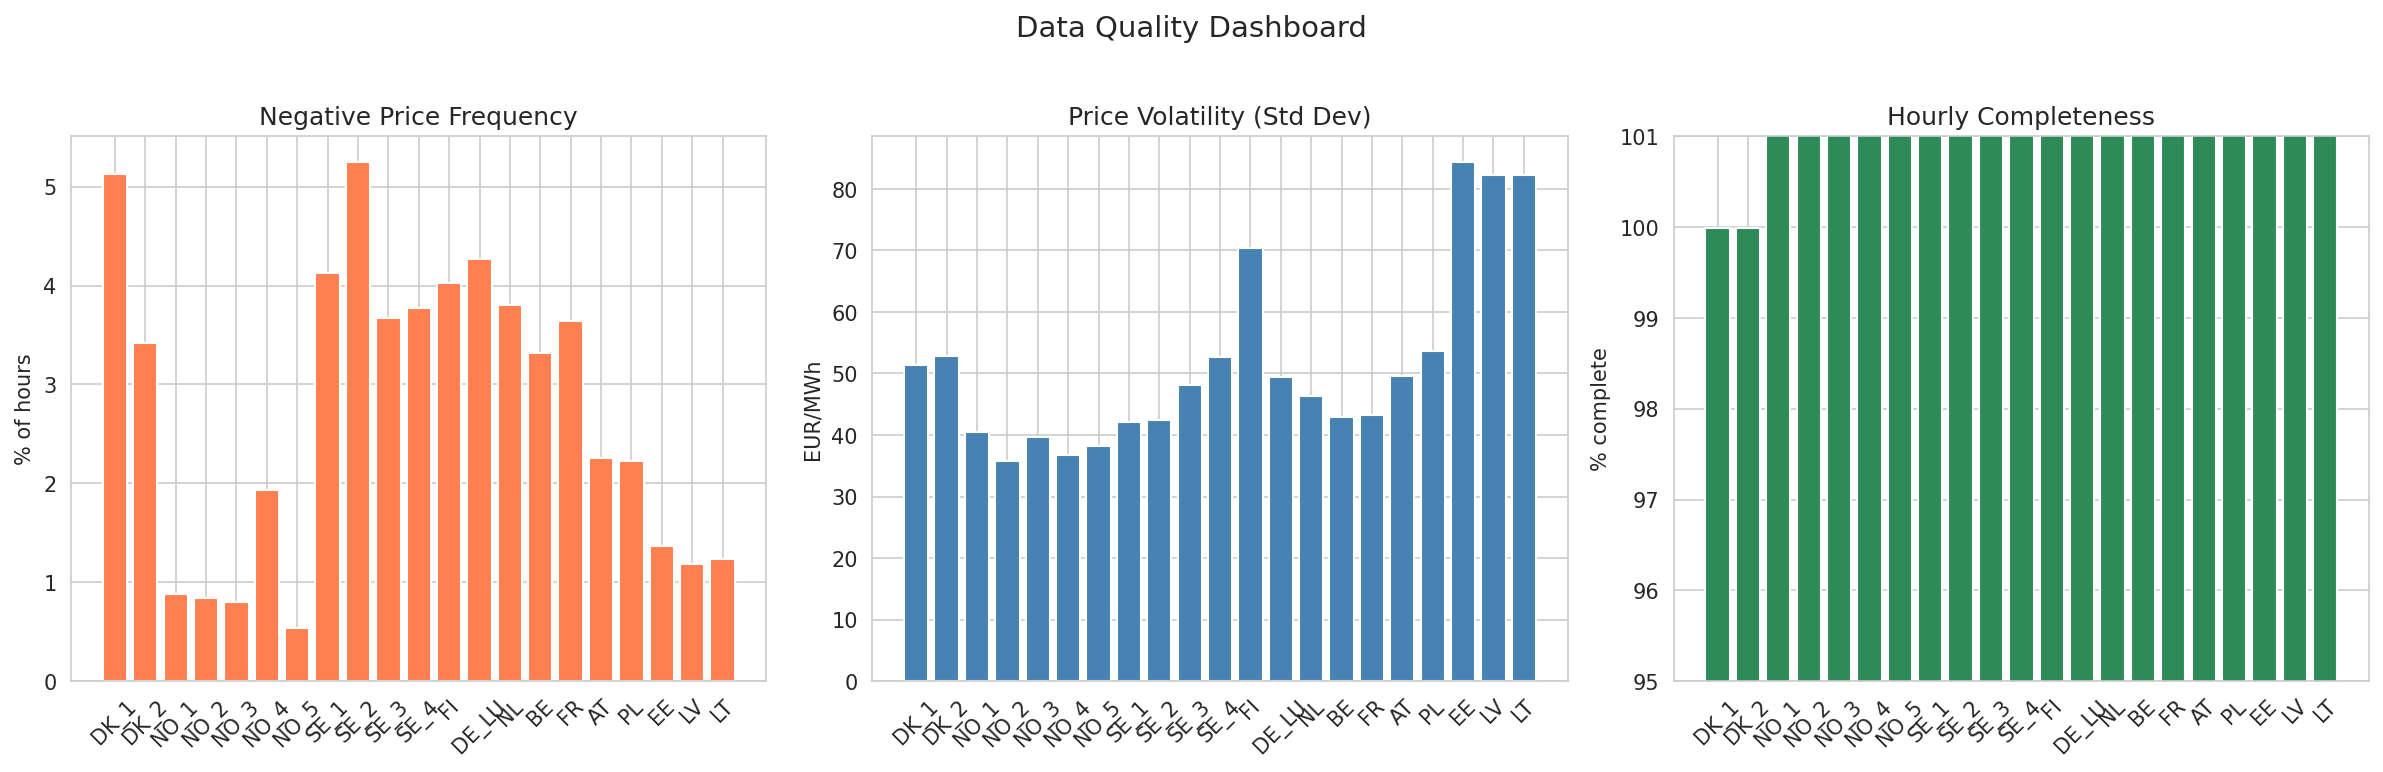
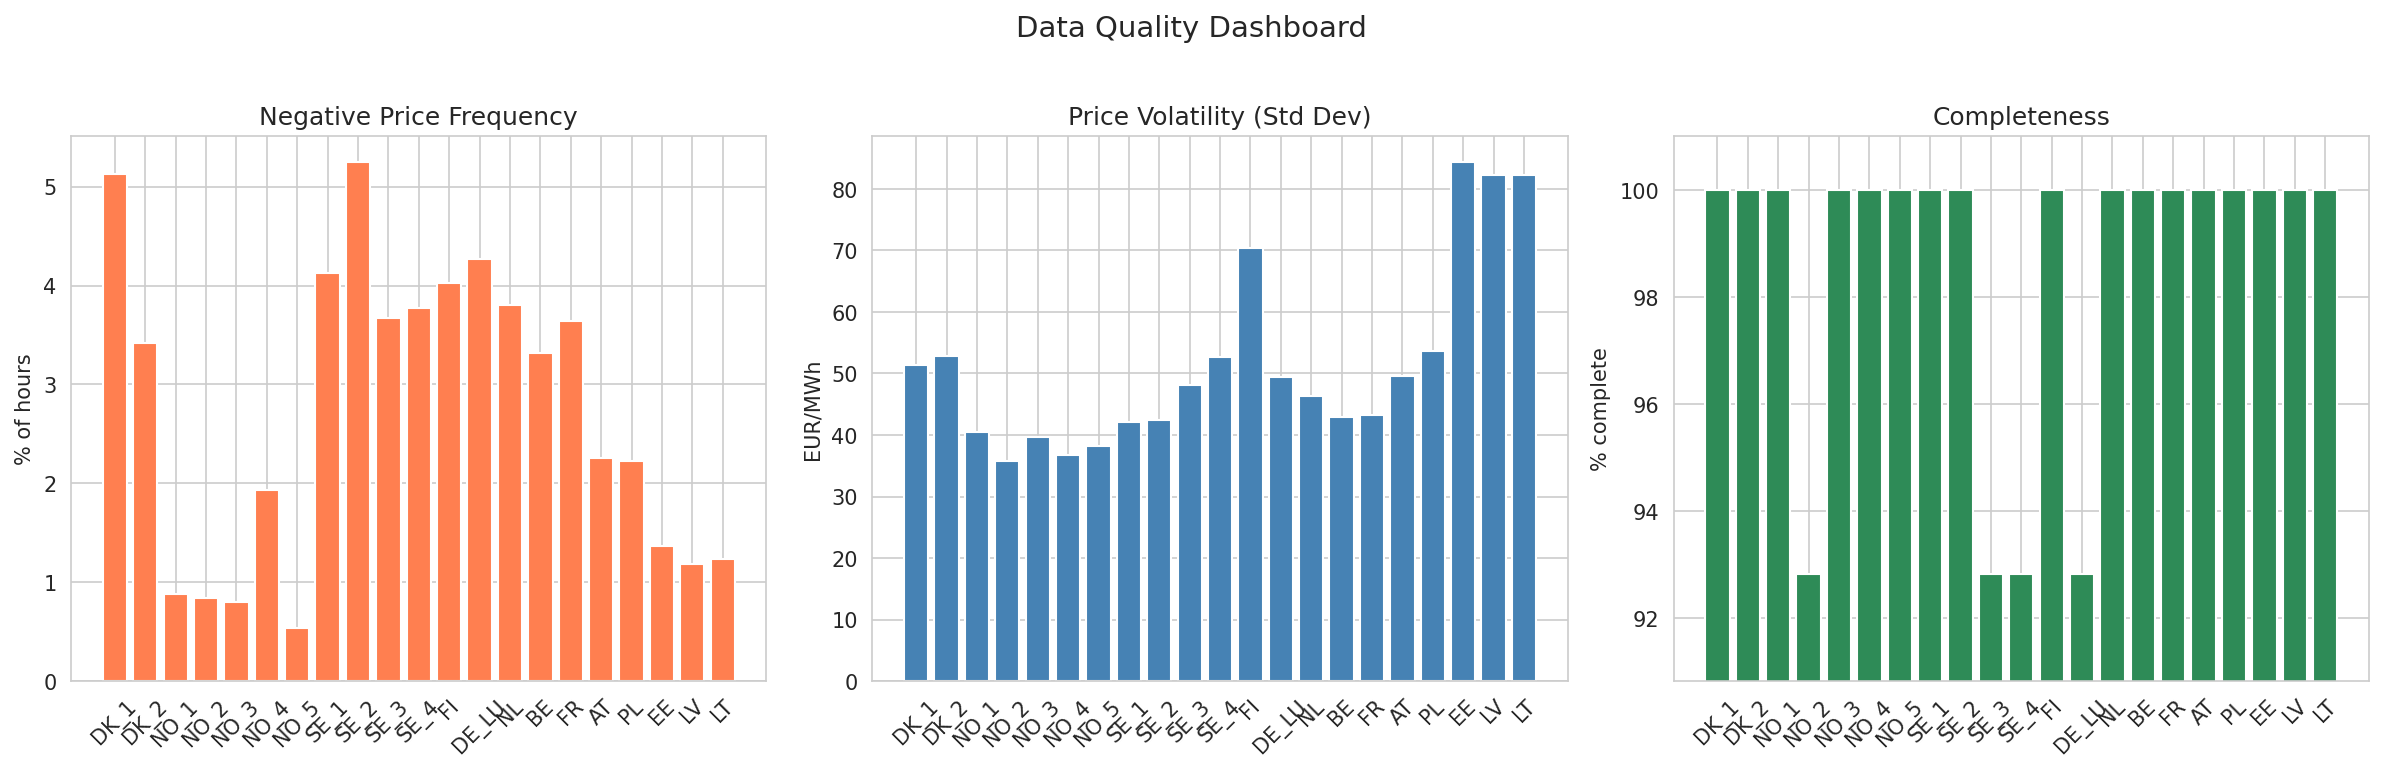
Fix completeness chart: handle sub-hourly ENTSO-E data, cap at 100%

diff --git a/scripts/run_pipeline.py b/scripts/run_pipeline.py
@@ -395,18 +395,17 @@ def generate_plots(all_zone_data: dict, model_results: list, backtest_results: l
         comp_data = {}
         for z, d in zones_with_data.items():
             p = d["prices"]
-            # Count expected hours properly: sum actual hours per day
-            # (accounts for DST: 23h spring-forward, 25h fall-back)
-            expected = 0
-            for date in pd.date_range(p.index.min().normalize(), p.index.max().normalize(), freq="D"):
-                day_start = date.tz_localize(p.index.tz) if date.tzinfo is None else date
-                day_end = day_start + pd.Timedelta(days=1)
-                expected += int((day_end - day_start) / pd.Timedelta(hours=1))
-            comp_data[z] = len(p) / expected * 100 if expected > 0 else 0
+            # Build a complete hourly index for the date range and check coverage
+            full_idx = pd.date_range(p.index.min(), p.index.max(), freq="h")
+            expected = len(full_idx)
+            # Count how many of those hours have data (resample to hourly if sub-hourly)
+            hourly = p.resample("h").first().dropna()
+            actual = len(hourly)
+            comp_data[z] = min(actual / expected * 100, 100.0) if expected > 0 else 0
         axes[2].bar(comp_data.keys(), comp_data.values(), color="seagreen")
         axes[2].set_ylabel("% complete")
-        axes[2].set_title("Hourly Completeness")
-        axes[2].set_ylim(min(comp_data.values()) - 2, 101)
+        axes[2].set_title("Completeness")
+        axes[2].set_ylim(max(min(comp_data.values()) - 2, 0), 101)
         axes[2].tick_params(axis="x", rotation=45)
 
         plt.suptitle("Data Quality Dashboard", fontsize=14, y=1.02)

diff --git a/README.md b/README.md
@@ -25,7 +25,7 @@ src/da_forecast/
   backtest/          Walk-forward engine, trading strategies, Sharpe/drawdown metrics
 notebooks/           Analysis notebooks (00-09)
 scripts/             Data fetching, pipeline runner, backtest, heatmap generation
-tests/               108 tests (pytest)
+tests/               109 tests (pytest)
 ```
 
 ## Data sources
@@ -137,7 +137,7 @@ Individual zone maps for each factor:
 
 ## Testing
 
-108 tests covering data loading, validation, feature engineering, model training, and backtesting:
+109 tests covering data loading, validation, feature engineering, model training, and backtesting:
 
 ```bash
 uv run pytest tests/ -v
